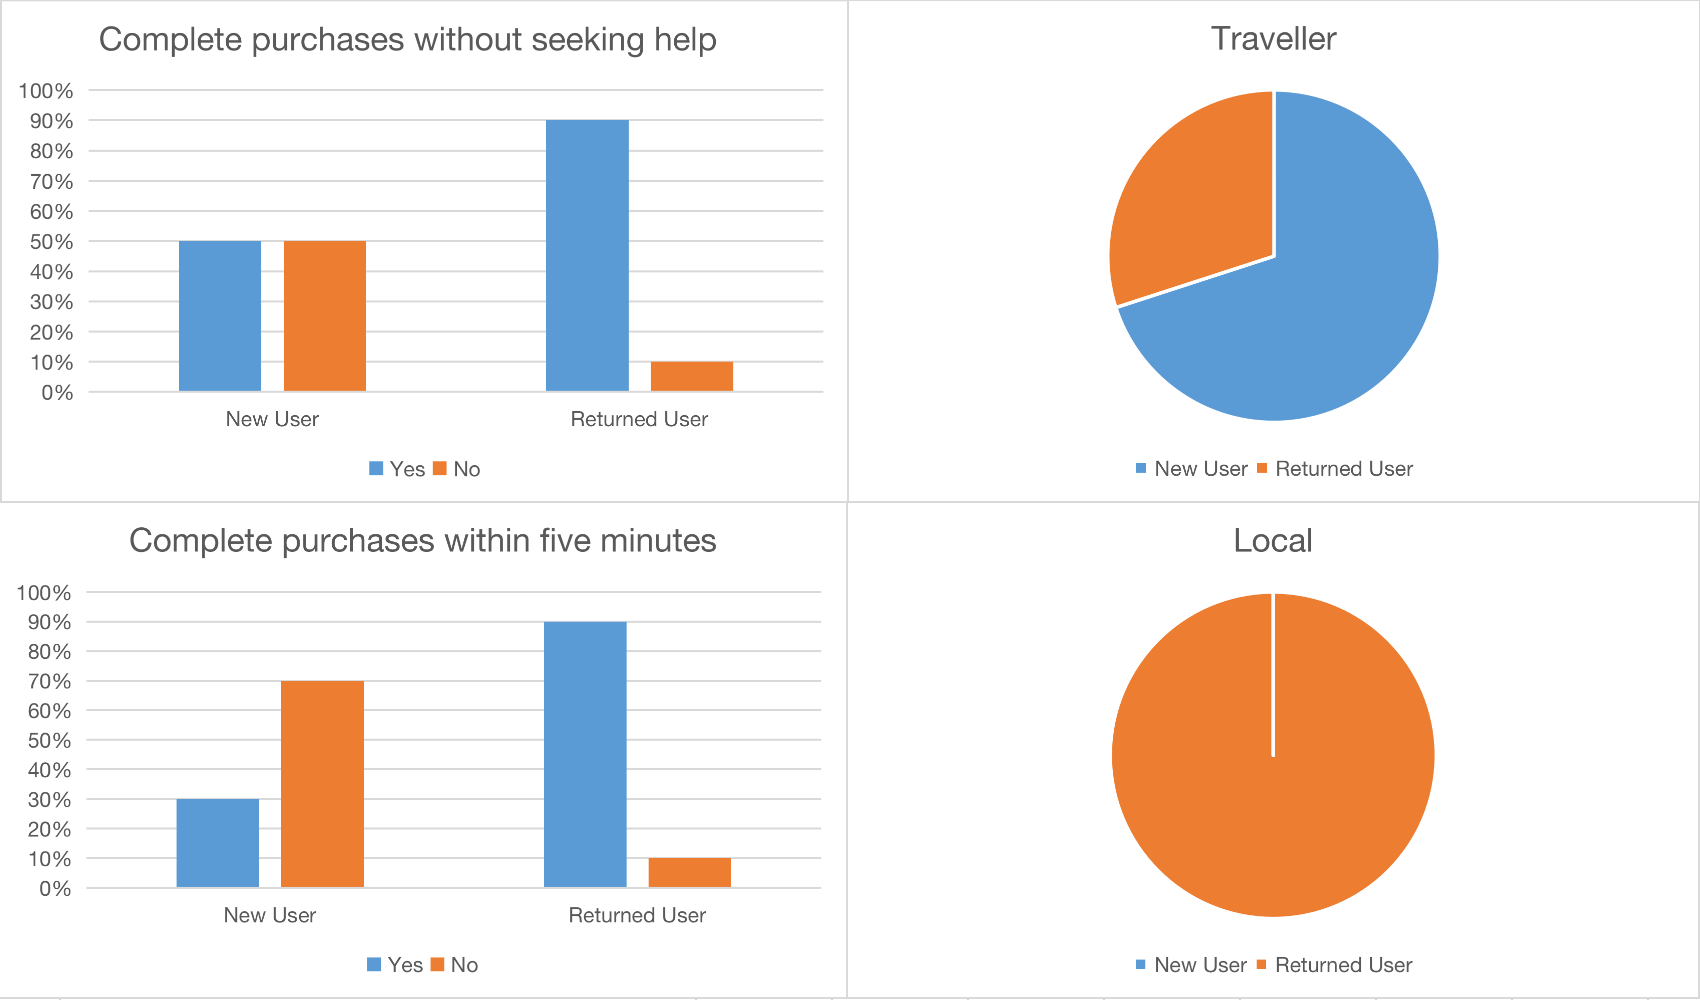
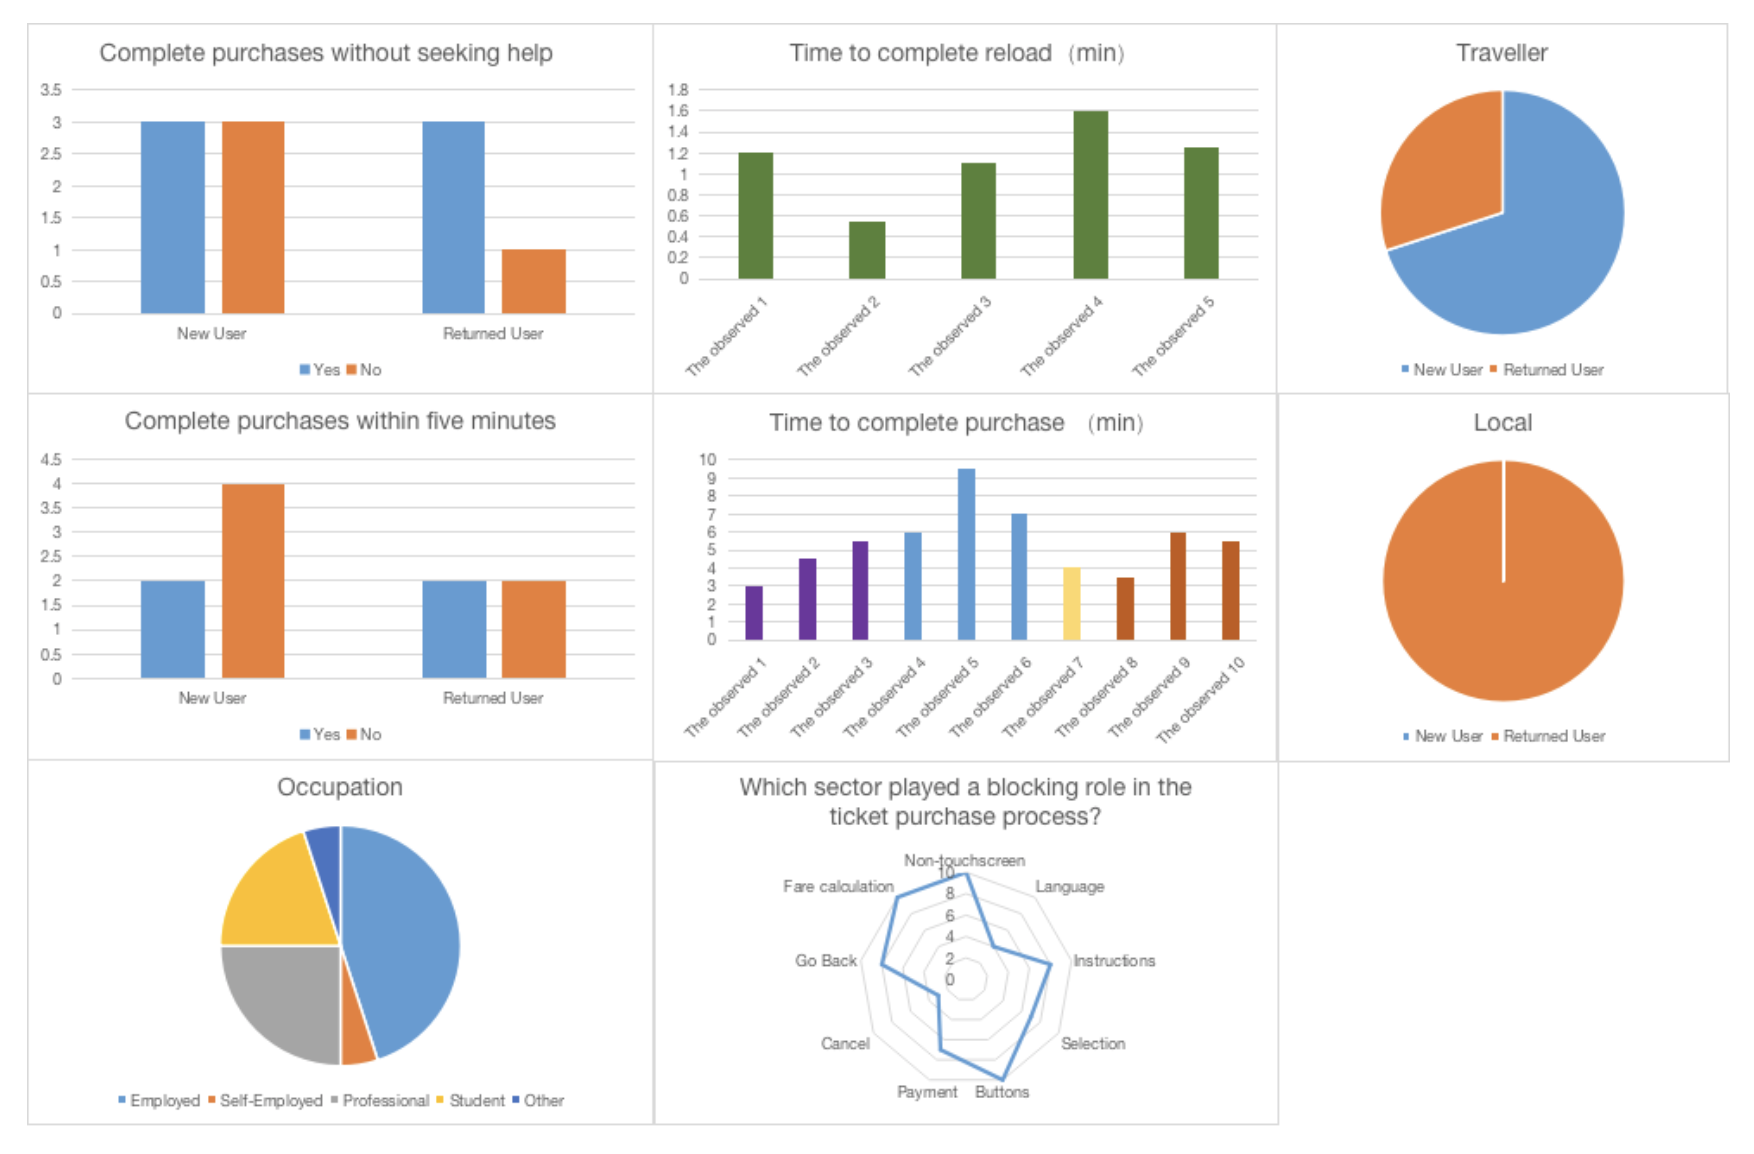
3/2

diff --git a/DC Metro Ticket Machine Design.html b/DC Metro Ticket Machine Design.html
@@ -78,14 +78,14 @@
           <h2>My role</h2>
             <p>I worked with my teammates to design the new DC Metro ticket machine interface. As the leader of the team, I was mainly responsible for ideation, user testing, user interface design and prototyping in the project.</p>
           <h2>Problem</h2>
-          <div class="col-xl-11 col-lg-10 align-items-center mx-auto">
-                  <img class="img-fluid mb-3 mb-lg-7" style="border-radius: .5rem;" src="img/dc%20metro.png" alt="">
-                  <p class="note text-center">DC Metro ticket machine</p>
-          </div>
             <p class="mb-1">The outdated ticket machine, as the only way for passengers to purchase tickets, passes and metro cards, does not provide a user-friendly experience. At peak times and holiday seasons, a passenger could wait up to 8 minutes for his/her turn to use the ticket machine.</p>
+            <div class="col-xl-10 col-lg-10 align-items-center mx-auto">
+                    <img class="img-fluid mb-3 mt-4 mb-lg-7" style="border-radius: .5rem;" src="img/dc%20metro.png" alt="">
+                    <p class="note text-center">DC Metro ticket machine</p>
+            </div>
             <p>Based on our observation and interviews, the following factors that lead to difficulties have been summed up. </p>
-              <div class="col-xl-11 col-lg-10 align-items-center mx-auto">
-                      <img class="img-fluid mb-3 mb-lg-7" style="border-radius: .5rem;" src="img/metro-q1.png" alt="">
+              <div class="col-xl-10 col-lg-10 align-items-center mx-auto">
+                      <img class="img-fluid mb-3 mb-lg-7" style="border-radius: .5rem;" src="img/metro-ur1.png" alt="">
                       <p class="note text-center">Analysis</p>
               </div>
           <h5>1. Terrible hardware and user interface design.</h5>
@@ -111,32 +111,32 @@
             <p>All users who need to purchase metro tickets, passes and metro cards. The main user group is between the ages of 15 and 60 years old, and some of them are technologically challenged.</p>
           <h2>From interview to persona</h2>
             <p>Interviews helped our team to extract important information from users’ feedback on the use of ticket machines. We integrated all the information into personas and listed the pain points.</p>
-            <div class="col-xl-12 col-lg-12 align-items-center mx-auto">
+            <div class="col-xl-10 col-lg-10 align-items-center mx-auto">
                <img class="img-fluid mb-5 mb-lg-7" src="img/persona-taylor.png" alt="">
             </div>
-            <div class="col-xl-12 col-lg-12 align-items-center mx-auto">
+            <div class="col-xl-10 col-lg-10 align-items-center mx-auto">
                <img class="img-fluid mb-5 mb-lg-7" src="img/persona-yun.png" alt="">
             </div>
           <h2>Design principles</h2>
             <p>After our research and user interviews, we have come up with a set of design principles to admit while designing. Summarized into three words, they are Simple, Useful, and Desirable.</p>
           <h2>From Empathy to Ideation</h2>
             <p>Existing interaction logic often confuses users so much that they cannot even complete tasks within a reasonable time without help.</p>
-            <div class="col-xl-12 col-lg-12 align-items-center mx-auto">
+            <div class="col-xl-10 col-lg-10 align-items-center mx-auto">
                  <img class="img-fluid mb-3 mb-lg-7" src="img/metro-empathy.png" alt="">
               </div>
               <p class="note text-center mb-5">User journey map</p>
-            <div class="col-xl-12 col-lg-12 align-items-center mx-auto">
+            <div class="col-xl-10 col-lg-10 align-items-center mx-auto">
                  <img class="img-fluid mb-2 mb-lg-7" src="img/user%20flow%20old.png" alt="">
               </div>
                   <p class="note text-center mb-5">Current user flow of the outdated ticket machine</p>
             <p class="mb-1">We referred to mature ticket vending systems in many cities, such as Beijing, Singapore, Hong Kong, London, New York, then proposed the new DC Metro ticket machine user flow. </p>
-            <div class="col-xl-12 col-lg-12 align-items-center mx-auto">
+            <div class="col-xl-10 col-lg-10 align-items-center mx-auto">
                <img class="img-fluid mb-2 mt-4 mb-lg-7" src="img/metro-ca.png" alt="">
                <p class="note text-center mb-5">Competitor analysis</p>
             </div>
             <p>Furthermore, after three iterations of user testing, we have modified part of the user flow, which is displayed in blue and green. In the new flow, the process is greatly simplified, and new shortcuts are created to allow users to reach the target step directly.</p>
 
-            <div class="col-xl-12 col-lg-12 align-items-center mx-auto">
+            <div class="col-xl-10 col-lg-10 align-items-center mx-auto">
                <img class="img-fluid mb-2 mb-lg-7" src="img/user%20flow%20new.png" alt="">
             </div>
                 <p class="note text-center mb-5">New user flow</p>
@@ -206,7 +206,7 @@
           <h2>Finaly prototype</h2>
             <p>We adjusted the visual design of the interface and optimized details. For example, eliminating the "Next" button to allow the entire product to automate the process, adding payment instructions, etc. </p>
             <h5>Comfort - Multi-language options for user convenience</h5>
-            <div class="col-xl-12 col-lg-12 col-md-12 col-sm-10 align-items-center mx-auto">
+            <div class="mt-4 col-xl-12 col-lg-12 col-md-12 col-sm-10 align-items-center mx-auto">
                <img class="img-fluid mb-4 mb-lg-7 shadow" src="img/metro-lang.gif" style="border-radius: .5rem;" alt="">
                <p class="note text-center mb-5">Multi-language homepage</p>
             </div>
@@ -258,12 +258,12 @@
                          <p class="note text-center mb-5">Collecting tickets and change</p>
                       </div>
           <h2>Evaluation</h2>
-          <h5>1. Save time buying tickets by 75%-91%.</h5>
-          <p>Users used to take approximately 4 minutes to complete the ticket purchase task. With the new designs, it is reduced to approximately 1 minute. In particular, 'Quick Booking' greatly reduces the time to approximately 20 seconds.</p>
-          <h5>2. Save time reloading metro card by 37.5%.</h5>
-          <p>Users used to take approximately 40 seconds to complete the reload task. With the new designs, it is reduced to approximately 25 seconds. </p>
-          <h5>3. Increased task success rate of purchasing ticket without seeking assistance up to 100%.</h5>
-          <p>In the survey, 30 % of users (50% of novice users) sought help from staff or other passengers in order to complete the purchase. With the new designs, all users can successfully complete the purchase task independently.</p>
+          <h5>Saved time buying tickets by 81%-95%</h5>
+          <p>Users used to take an average of 5.4 minutes to complete the ticket purchase task. With the new designs, it is reduced to approximately 1 minute. In particular, 'Quick Booking' greatly reduces the time to approximately 0.25 minutes.</p>
+          <h5>Saved time reloading metro card by 64%</h5>
+          <p>Users used to take approximately 1.14 minutes to complete the reload task. With the new designs, it is reduced to approximately 0.40 minutes. </p>
+          <h5>Increased task success rate of purchasing ticket without seeking assistance up to 100%</h5>
+          <p>In the survey, 50% of new users sought help from staff or other passengers in order to complete the purchase. With the new designs, all users can successfully complete the purchase task independently.</p>
 
           <h2>Final thoughts</h2>
           <p>In this project, we practiced what we learned about user experience. The positive feedback we gathered from users on the new DC Metro ticket machine design has also fully proved that good user-centered design can greatly improve user satisfaction.</p>
@@ -285,21 +285,21 @@
             <p>Metro stations are overcrowded during rush hours and the old ticket machines make the situation worse. Passengers, especially frequent riders, want to reload metro card as quickly as possible. It is an excellent idea to integrate the reload function into the mobile app. Therefore the purpose of this product is to allow daily commuters to skip the line and reload their metro card faster. </p>
            <h2>Research</h2>
              <p>This is a product from 0 to 1, so I first conducted user interviews to understand the real needs of users. </p>
-               <div class="col-xl-12 col-lg-12 col-md-12 col-sm-10 align-items-center mx-auto">
-                  <img class="img-fluid mb-4 mb-lg-7 shadow" src="img/metroapp-q1.png" style="border-radius: .5rem;" alt="">
+               <div class="col-xl-10 col-lg-10 col-md-10 col-sm-12 align-items-center mx-auto">
+                  <img class="img-fluid mb-4 mb-lg-7" src="img/metroapp-q1.png" alt="">
                   <p class="note text-center mb-5">Analysis</p>
                </div>
            <h2>Personas</h2>
               <p>Brian, a 25-year-old company employee working in dc, uses the metro to commute between home and office every day. On weekends, he uses bus and metro with his friends to go to park hiking there.  Occasionally, he would use the long vacation to visit friends and family around the city. </p>
            <h2>User stories</h2>
             <p>User stories helped me to sort needs of user and determine priorities of the functionalists of the app for MVP.</p>
-              <div class="col-xl-12 col-lg-12 col-md-12 col-sm-10 align-items-center mx-auto">
-                 <img class="img-fluid mb-4 mb-lg-7 shadow" src="img/metroapp-us.png" style="border-radius: .5rem;" alt="">
+              <div class="col-xl-10 col-lg-10 col-md-10 col-sm-12 align-items-center mx-auto">
+                 <img class="img-fluid mb-4 mb-lg-7" src="img/metroapp-us.png" alt="">
                  <p class="note text-center mb-5">User stories and empathy map</p>
               </div>
             <h2>User scenario </h2>
-            <div class="col-xl-12 col-lg-12 col-md-12 col-sm-10 align-items-center mx-auto">
-               <img class="img-fluid mb-4 mt-3 mb-lg-7 shadow" src="img/metroapp-us1.png" style="border-radius: .5rem;" alt="">
+            <div class="col-xl-10 col-lg-10 col-md-10 col-sm-12 align-items-center mx-auto">
+               <img class="img-fluid mb-4 mt-3 mb-lg-7" src="img/metroapp-us1.png" alt="">
                <p class="note text-center mb-5">User scenario</p>
             </div>
 
@@ -307,12 +307,15 @@
            <h2>Ideation and MVP</h2>
             <p>The original app design only had the function of reloading the metro card. As a MVP, it confirmed that this app does solve the user's problem, that is, quickly complete the task of reloading metro card.</p>
             <div class="col-xl-12 col-lg-12 col-md-12 col-sm-10 align-items-center mx-auto">
-               <img class="img-fluid mb-4 mt-3 mb-lg-7 shadow" src="img/metroapp-p1.png" style="border-radius: .5rem;" alt="">
+               <img class="img-fluid mb-4 mt-3 mb-lg-7" src="img/metroapp-p1.png" alt="">
                <p class="note text-center mb-5">MVP prototype</p>
             </div>
             <p>The disadvantage is that the only one function of the app is not enough to support all users, such as users who do not yet have a metro card. In addition, functional deficiencies will reduce the number of times users use apps, so that they gradually forget the existence of apps, which reduces user retention.</p>
-            <img class="img-fluid mb-4 mb-lg-7" src="img/swot.png" alt="">
+            <div class="col-xl-10 col-lg-10 col-md-10 col-sm-12 align-items-center mx-auto">
+            <img class="img-fluid mb-4 mb-lg-7 mx-auto" src="img/swot.png" alt="">
             <p class="note text-center mb-5">SWOT map</p>
+            </div>
+
 
            <h2>Metrics</h2>
             <ul>
@@ -321,23 +324,42 @@
               <li>Desirability</li>
               <p>The user's rating of the app in the System Usability Scale should be higher than the grade B, that is, the average score is higher than 68.</p>
             </ul>
-              <div class="col-xl-12 col-lg-12 col-md-12 col-sm-10 align-items-center mx-auto">
-                 <img class="img-fluid mb-4 mt-3 mb-lg-7 shadow" src="img/metroapp-m.png" style="border-radius: .5rem;" alt="">
+              <div class="col-xl-10 col-lg-10 col-md-10 col-sm-12 align-items-center mx-auto">
+                 <img class="img-fluid mb-4 mt-3 mb-lg-7" src="img/metroapp-m.png" alt="">
                  <p class="note text-center mb-5">Survey</p>
               </div>
-              <div class="col-xl-12 col-lg-12 col-md-12 col-sm-10 align-items-center mx-auto">
-                 <img class="img-fluid mb-4 mt-3 mb-lg-7 shadow" src="img/metroapp-us2.png" style="border-radius: .5rem;" alt="">
+              <div class="col-xl-10 col-lg-10 col-md-10 col-sm-12 align-items-center mx-auto">
+                 <img class="img-fluid mb-4 mt-3 mb-lg-7" src="img/metroapp-us2.png"alt="">
                  <p class="note text-center mb-5">Modified user stories</p>
               </div>
 
            <h2>Redesign</h2>
+           <h3>User flow</h3>
             <p>The redesigned app contains the most desirable features, including a real-time bus tracking system and an online metro card reload system. It is dedicated to providing a whole new mobility enhancement for users.</p>
               <div class="col-xl-9 col-lg-9 col-md-9 col-sm-10 align-items-center mx-auto" >
                <img class="img-fluid mb-4 mb-lg-7" src="img/metro%20app%20flow.png" alt="">
                <p class="note text-center mb-5">Flow chart</p>
               </div>
+           <h3>Modified prototype</h3>
+           <p class="mb-1">In addition to reload, users can now purchase metro cards in the app. This group of users who have metro travel needs but do not have a metro card may choose to buy a metro card through the app.</p>
+           <p class="mb-1">Except for the reload related buttons, other buttons on the main page are integrated into a form to reduce the user's visual burden. </p>
+           <p>The items in the account are better categorized, and personal carbon emission indicators have been added to improve user satisfaction and social activities. </p>
+            <div class="col-xl-12 col-lg-12 col-md-12 col-sm-10 align-items-center mx-auto" >
+             <img class="img-fluid mb-4 mb-lg-7" src="img/metroapp-re1.png" alt="">
+            <p class="note text-center mb-5">Modified prototype</p>
+            </div>
+            <p class="mb-1">The reload function is no longer presented on a separate full-screen page. Instead, a half-screen modal page is used. This design is more convenient for users to operate with one hand. </p>
+            <p class="mb-1">In order to match the user's habits, the design of the reload page simulates the logic of online shopping cart, that is ‘merchandise-price-payment-confirmation’. </p>
+            <p class="mb-1">Considering the huge number of bus lines there are, a search box is placed on the tracking page. </p>
+            <p>The most frequently reported problem from users is about timetables. Combining vehicle information and route maps will be a more intuitive and efficient solution for information transmission. </p>
+            <div>
+             <img class="img-fluid mb-4 mb-lg-7" src="img/metroapp-re2.png" alt="">
+             <p class="note text-center mb-5">Modified prototype</p>
+            </div>
+
+          <h2>Final prototype</h2>
            <h4>Aquisition - To get more users</h4>
-            <p>In addition to reload, users can now purchase metro cards in the app. This group of users who have metro travel needs but do not have a metro card will choose to buy a bus card through the app.</p>
+            <p>In addition to reload, users can now purchase metro cards in the app. This group of users who have metro travel needs but do not have a metro card may choose to buy a metro card through the app.</p>
            <h4>Retention - To get users back</h4>
             <p>The app provides real-time updates of all of the buses and metro operating in DC area. Passengers get easy access to arrival times of their favorite stops as well as alerts and delays. This feature greatly increases the user's usage rate. </p>
            <h4>Referral - To get users to invite more users </h4>

diff --git a/italkbbtv.html b/italkbbtv.html
@@ -94,10 +94,10 @@
                  <p class="note text-center">Old version of homepage</p>
               </div>
             <h2>Analysis<h2>
-              <p>Although native Chinese speaking or native Chinese and English speaking users account for the largest proportion, 4% of users still have difficulty reading the Chinese text content on the page. There is a case that a native Chinese and English speaking user are proficient in Chinese listening but are not familiar with Chinese characters. <strong>Therefore, it is necessary to add English descriptions.</strong> </p>
-              <p>78% of users come to the website to kill time, and more than 50% of users already have a target video they need to find when they use the website. <strong>Having a clear search box is closer to user needs.</strong> </p>
-              <p>More than half of users chose ‘Neutral’ in the homepage design satisfaction survey,  22% chose ‘Not satisfied’. In comparison with other websites with similar functions, <strong>I found that the users care about content attractiveness, function richness, and layout rationality.</strong> </p>
-              <p>Only 3% of testers are registered as members of italkbb tv. The top two factors that affect users' willingness to register are ‘reasonable price’ and ‘personalized customization’. Unfortunately, italkbb tv's free membership registration policy did not bring them a high conversion rate. In the online interview, the tester reported that he was not prompted about membership benefits and free registration functions at all. <strong>Therefore, making users aware of member benefits and free registration policy is the key.</strong> </p>
+              <p class="mb-1">Although native Chinese speaking or native Chinese and English speaking users account for the largest proportion, 4% of users still have difficulty reading the Chinese text content on the page. There is a case that a native Chinese and English speaking user are proficient in Chinese listening but are not familiar with Chinese characters. <strong>Therefore, it is necessary to add English descriptions.</strong>
+              <p class="mb-1">78% of users come to the website to kill time, and more than 50% of users already have a target video they need to find when they use the website. <strong>Having a clear search box is closer to user needs.</strong> </p>
+              <p class="mb-1">More than half of users chose ‘Neutral’ in the homepage design satisfaction survey,  22% chose ‘Not satisfied’. In comparison with other websites with similar functions, <strong>I found that the users care about content attractiveness, function richness, and layout rationality.</strong> </p>
+              <p class="mb-1">Only 3% of testers are registered as members of italkbb tv. The top two factors that affect users' willingness to register are ‘reasonable price’ and ‘personalized customization’. Unfortunately, italkbb tv's free membership registration policy did not bring them a high conversion rate. In the online interview, the tester reported that he was not prompted about membership benefits and free registration functions at all. <strong>Therefore, making users aware of member benefits and free registration policy is the key.</strong> </p>
               <p>In addition to video streaming, 41% of users also spend a lot of time browsing news, and other users are also looking for entertainment and shopping information. <strong>In order to capture users, it is necessary to show the functions and content that users expect. </strong></p>
 
             <h2>Redesign / menu</h2>
@@ -111,7 +111,7 @@
                  <img class="img-fluid mb-4 mb-lg-4 shadow" src="img/italkbb-r-m2.png" alt="">
                  <p class="note text-center">Icon</p>
               </div>
-              <p>English is added as one of the language options. </p>
+              <p class="mb-1">English is added as one of the language options. </p>
               <p>The background color is changed from black to white to make the logo easier to distinguish. </p>
               <div class="col-xl-8 col-lg-8 align-items-center mx-auto">
                  <img class="img-fluid mb-4 mb-lg-4 shadow" src="img/italkbb-r-m3.png" alt="">
@@ -179,7 +179,7 @@
                   <p class="note text-center">Modified design</p>
               </div>
             <h2>Outcome</h2>
-              <p>The results reported by 21 testers are positive for the improvement of the design. Among them, the user satisfaction rate has increased from an average score of 2.97 in the old version to an average score of 4.25 in the new design. This means that satisfaction has increased by 43%.</p>
+              <p class="mb-1">The results reported by 21 testers are positive for the improvement of the design. Among them, the user satisfaction rate has increased from an average score of 2.97 in the old version to an average score of 4.25 in the new design. This means that satisfaction has increased by 43%.</p>
               <p>100% of users are aware that membership registration is free and the members enjoy benefits. 62% of users are willing to register as a member, which is a big improvement over the 3% membership registration rate in the old design. </p>
               <div class="col-xl-10 col-lg-10 align-items-center mx-auto">
                   <img class="img-fluid mb-4 mb-lg-4 shadow" src="img/italkbb-q2.png" style="border-radius: .5rem;" alt="">
